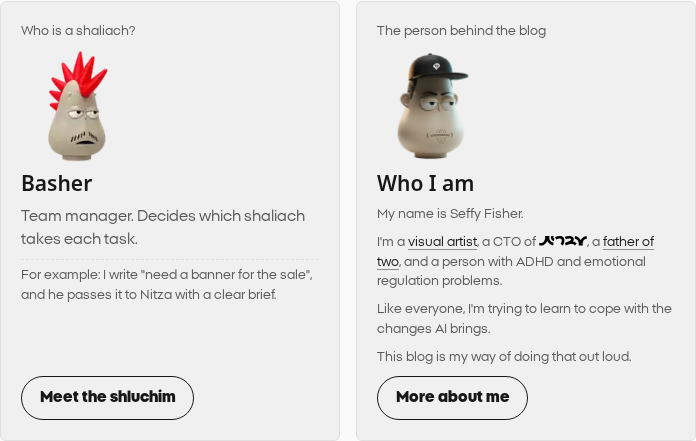
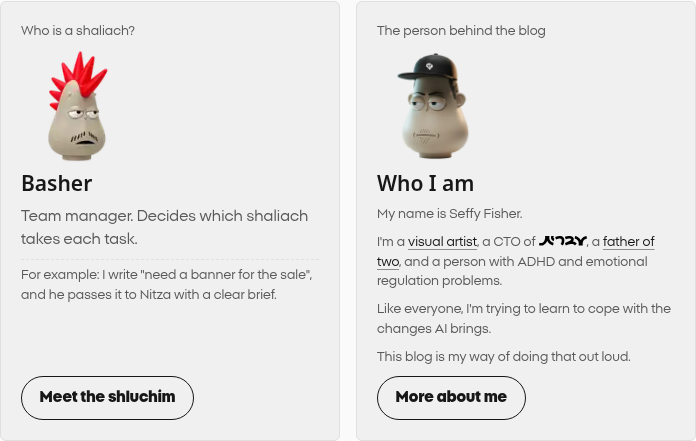
Home: about face looks the same way as Bashar (own flip, opposite of the shaliach mirror)

diff --git a/src/styles/global.css b/src/styles/global.css
@@ -478,6 +478,9 @@ footer.site .topics { flex-wrap: wrap; gap: 0 1.25rem; margin-top: .75rem; }
 .card h2 { font-family: var(--font-system); font-weight: 600; font-size: var(--step-1); line-height: 1.3; margin: 0; overflow-wrap: anywhere; }
 /* The avatar art looks to the right. In Hebrew it sits at the right edge of the card, so mirror it to face the text (English already faces inward). */
 :root[dir="rtl"] .card .avatar { transform: scaleX(-1); }
+/* Seffy's About still is drawn looking the other way (left), so it gets the opposite flip: mirrored in English, as-is in Hebrew. Both faces then look the same way as Bashar. */
+.card .avatar.about-face { transform: scaleX(-1); }
+:root[dir="rtl"] .card .avatar.about-face { transform: none; }
 .card .example { font-size: .8rem; padding-top: .35rem; border-top: 1px dashed var(--line); }
 .card .btn { margin-top: auto; display: inline-flex; align-items: center; min-height: 2.75rem; padding-inline: 1.1rem; border: 1px solid var(--fg); border-radius: 999px; color: var(--fg); font-size: var(--step--1); font-weight: 600; text-decoration: none; }
 .card .btn:hover { background: var(--fg); color: var(--bg); }
